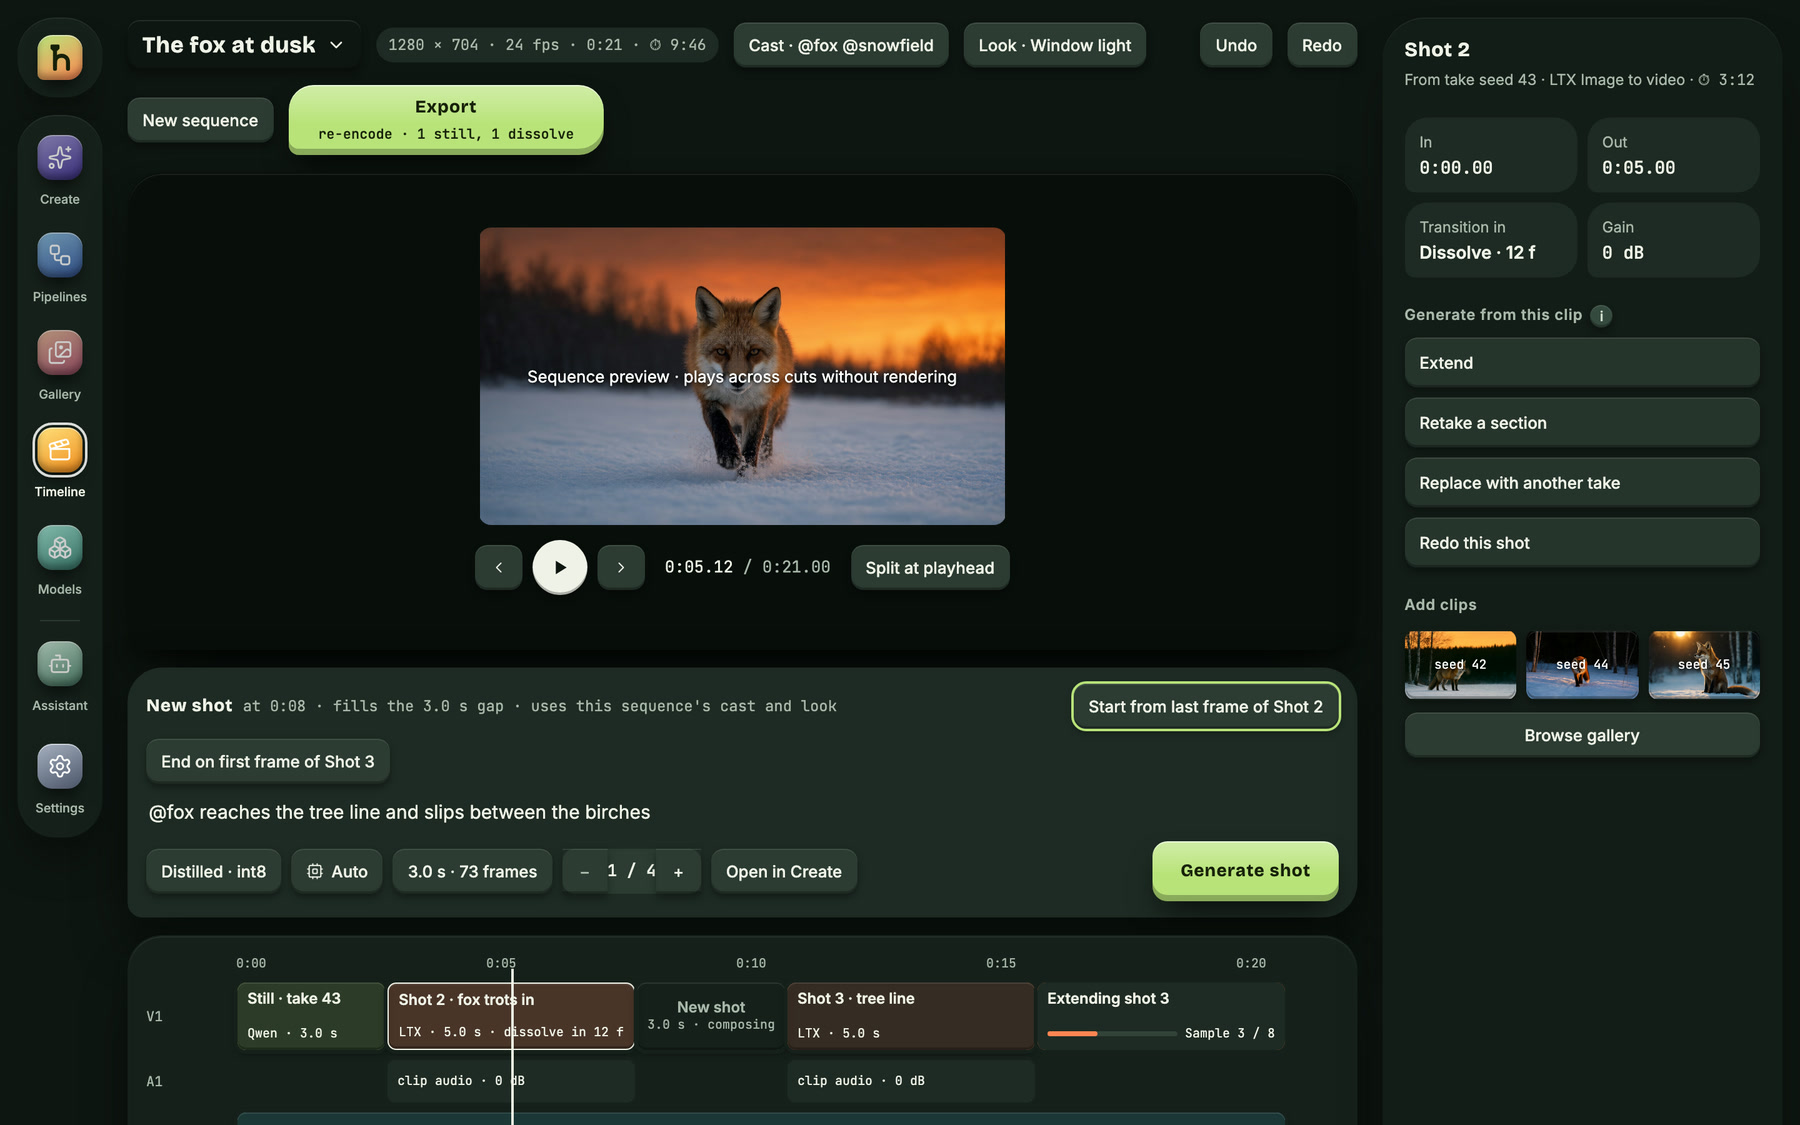
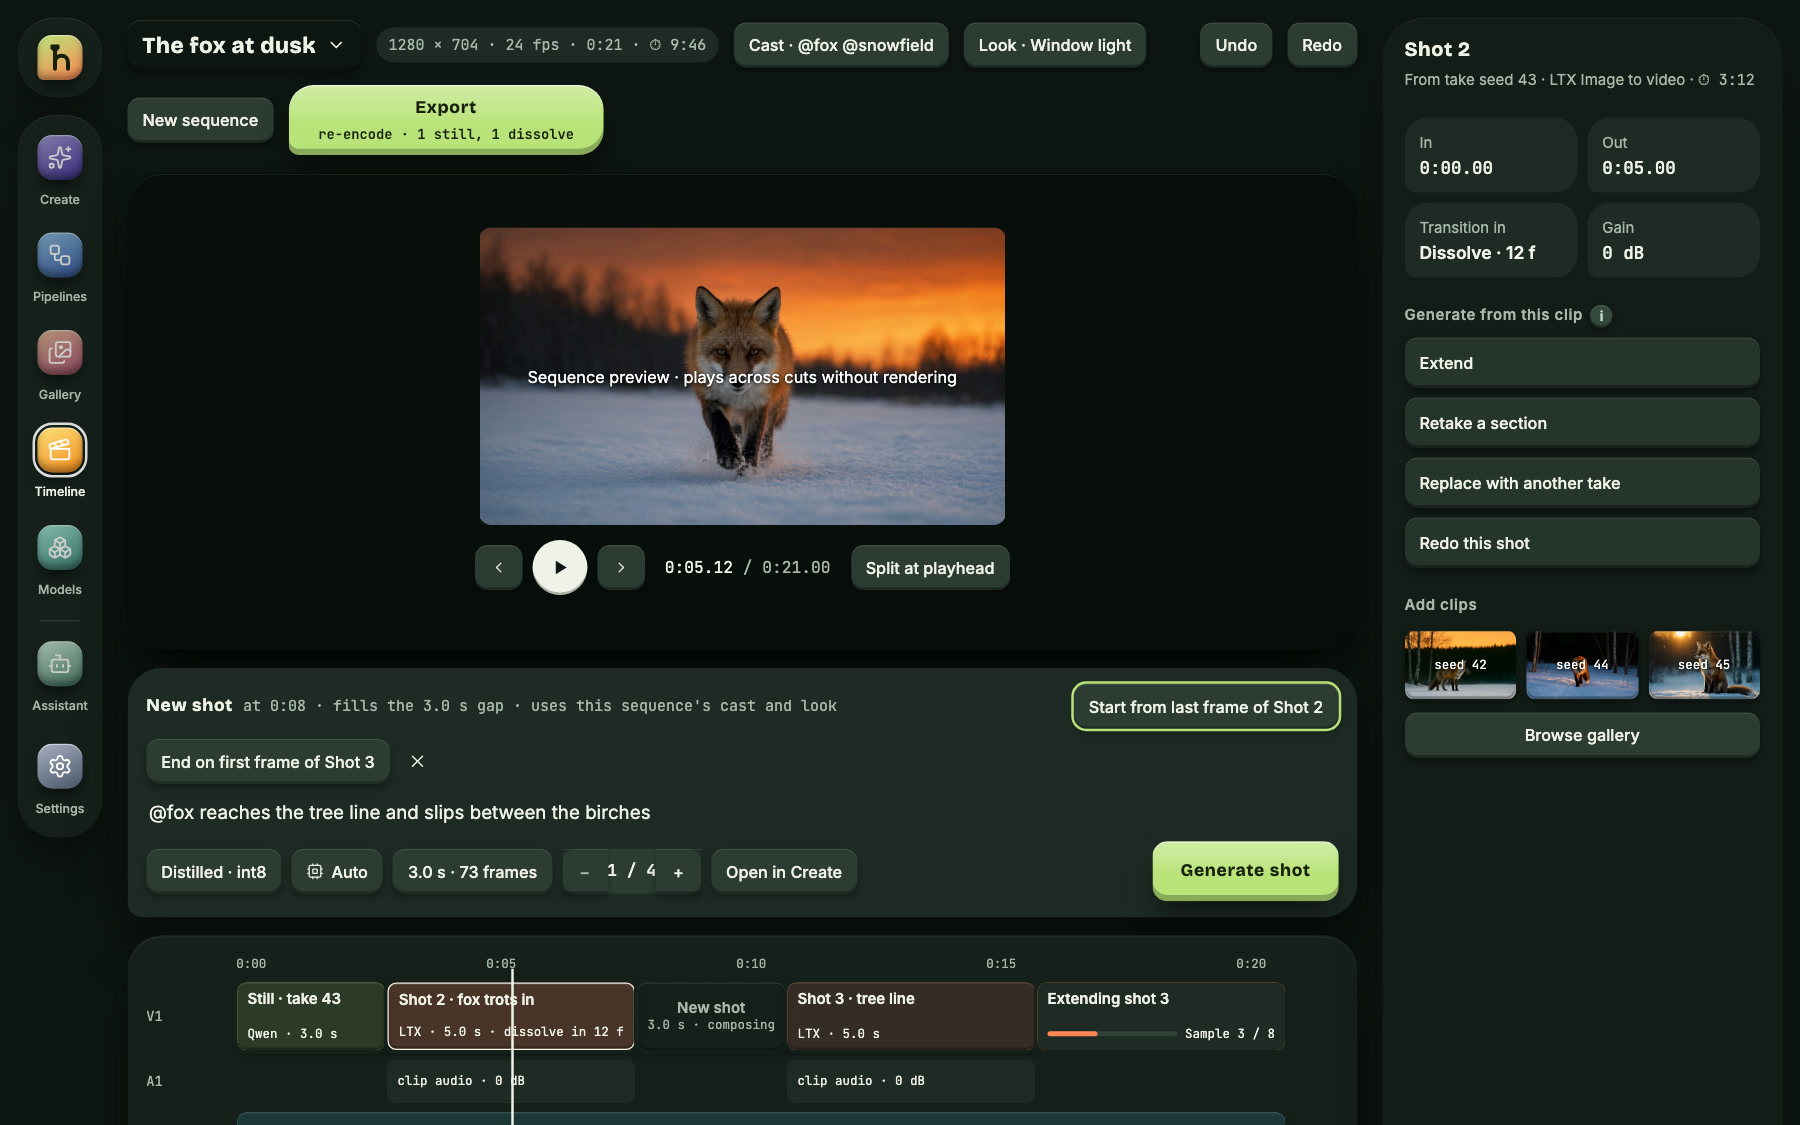
Docs for 0.1.0-alpha.5: What's new, alpha.5 downloads, the movable Assistant, Create's setting popups and All settings, Timeline Clone and auto-named sequences, right-click menus, host memory Automatic or Custom; four screenshots from the alpha.5 boards

diff --git a/src/content/docs/start/whats-new.md b/src/content/docs/start/whats-new.md
@@ -1,52 +1,61 @@
 ---
-title: What's new in 0.1.0-alpha.4
-description: The latest release, with Hub and System in the rail, a one-step Assistant setup, and install on Windows and Linux with Docker.
+title: What's new in 0.1.0-alpha.5
+description: The latest release, with a movable Assistant, settings popups in Create, Timeline clones and helmstudio's own right-click menus.
 sidebar:
   label: What's new
   order: 6
 ---
 
-0.1.0-alpha.4 is out, released on 25 November 2026 as a pre-release. Get it from
+0.1.0-alpha.5 is out, released on 26 November 2026 as a pre-release. Get it from
 [GitHub releases](https://github.com/janishar/helmstudio/releases). On a Mac from 0.1.0-alpha.2 on, choose
 **Check for updates…** in the app's menu. New installs: [Install and run](/start/install/).
 
-## Hub and System
-
-- Admins get two new items in the rail. [Hub](/studio/hub/) holds everything AI: **Assistant**, **In pipelines**,
-  **Providers** and **Plugins**. [System](/studio/system/) holds **Users**, **Hosts** and **API keys**.
-- The old **Admin** and **Plugins** items are gone. Their pages now live in Hub and System.
-- **Hub › In pipelines** sets the model a pipeline's AI step uses on **Auto**: a local model, a provider's model, or
-  the same as the Assistant.
-
 ## Assistant
 
-- It opens from the **Assistant** drawer, for everyone.
-- Before it is set up, the drawer says so. An admin gets **Set up**; anyone else is asked to have their admin set it
-  up. For an admin it opens this way once, on the first launch.
-- Setup is one flow: pick who answers, the key, the model.
-- On the Mac, [Your Claude subscription](/plugins/#your-claude-subscription) no longer needs a key pasted.
+- Move it. Drag the drawer's header or bar to float it anywhere on the screen; **Dock** (or a double-click) puts it
+  back at the right edge. It remembers the place in this browser.
+- **Close** stays on screen while a chip shows. A page's side form minimizes a docked drawer.
 
-More in [Assistant](/studio/assistant/).
-
-## Install on Windows and Linux
-
-- Each release has one `compose.yml` for Docker. The first start makes the secrets and your admin account; no
-  install script. See [Install and run](/start/install/#windows-and-linux-with-docker).
-- The images run on Intel/AMD and ARM machines. No NVIDIA image ships: on an NVIDIA card the runners run on the
-  machine itself, on Linux or Windows with WSL2. See [An NVIDIA card](/start/install/#an-nvidia-card).
-- Windows is untested so far.
-- The Mac app works as before.
+More in [Assistant](/studio/assistant/#move-it).
 
 ## Create
 
-- The **Image**, **Video** and **Audio** switch is now a panel of tabs, and keeps one size when you switch.
+- Each setting chip under the prompt (model · precision, **Run on**, size, length · fps, audio) opens a small popup
+  for just that setting.
+- The sliders button opens all the settings on the right. They are open by default.
+- Create offers only the variants that a host online now has.
+
+## Timeline
+
+- A **Clone** button in the Sequences dialog copies a sequence with all its clips, markers, cast and look. The copy
+  uses the same takes.
+- A sequence with no name is named from its shots' prompts. A name you type is kept.
+- The sliders button in the tracks tool bar opens and closes the side panel.
+- **New shot** has a **×**, and **+ New sequence** in the Sequences dialog works again.
+
+## Right-click menus
+
+- helmstudio's own right-click menus now work across the app: Timeline, Gallery, Create, Graph and Pipelines,
+  Assistant chat, Models, the LoRA, voice and element libraries, and the Hub and System lists, with shortcuts shown.
+- Text fields get **Cut**, **Copy**, **Paste**, **Select all** and **Insert @…**.
+- Shift + right-click opens the browser's menu instead.
+
+## Hosts and the Mac app
+
+- In [System](/studio/system/#hosts) › **Hosts**, the memory budget is **Automatic** or **Custom**. Automatic uses the
+  Mac's GPU memory limit when one is set.
+- The Mac app window never scrolls; only the panels inside it do.
 
 ## Earlier releases
 
+- **0.1.0-alpha.4:** [Hub](/studio/hub/) and [System](/studio/system/) in the rail for admins, the
+  [Assistant](/studio/assistant/) for everyone with a one-step setup, a default model for pipelines (**Hub › In
+  pipelines**), your Claude subscription with no key to paste, and install on Windows and Linux with Docker (one
+  `compose.yml` per release; Windows is untested).
 - **0.1.0-alpha.3:** an optional plugin to use your own Claude plan on the Mac, off by default.
 - **0.1.0-alpha.2:** a much stronger [Assistant](/studio/assistant/) (full screen or a small bar, `@` to hand it
   takes, it sees images, **Auto mode**, shot lists that stick), [plugins](/plugins/) with
   [Web search](/plugins/web-search/), [skills](/plugins/skills/) and [Media tools](/plugins/media-tools/), render
   times on every take, a faster Gallery, and a Mac app that updates itself.
 
-Every change is in the [changelog](https://github.com/janishar/helmstudio/blob/v0.1.0-alpha.4/CHANGELOG.md).
+Every change is in the [changelog](https://github.com/janishar/helmstudio/blob/v0.1.0-alpha.5/CHANGELOG.md).

diff --git a/src/content/docs/studio/timeline.md b/src/content/docs/studio/timeline.md
@@ -15,9 +15,16 @@ shots in all (for example ⏱ 12:40), its cast and look defaults, undo and redo,
 
 - **New sequence**: give it a name. Its width, height and frame rate come from the first clip; with no clip yet it is
   1280 × 720 at 24 fps. Sound is 48 kHz.
-- **Switch, rename or delete**: open the sequence switcher (**Sequences**). Deleting a sequence keeps its clips in
+- **Switch, rename, clone or delete**: open the sequence switcher (**Sequences**). **Clone** copies a sequence with
+  all its clips, markers, cast and look; the copy uses the same takes, so nothing is rendered again. Deleting a sequence keeps its clips in
   the Gallery and cancels an unfinished export.
+- **Names**: a sequence with no name is named from its shots' prompts, like Create's sessions. A name you type is
+  kept.
+- **Side panel**: the sliders button in the tracks tool bar opens and closes the panel on the right.
 - **Defaults for new shots**: a sequence can carry a cast (elements) and a look. Every new shot starts with them.
+
+Right-click a clip, a gap, a track, the ruler or a selection for its actions, with their shortcuts. Shift +
+right-click gives the browser's menu.
 
 ## Add clips
 
@@ -101,7 +108,7 @@ progress, and the new take also lands in the Gallery.
 
 **New shot.** At the playhead, in a gap, or from a selected clip, choose **New shot**. Create's composer opens docked
 in the timeline, with the sequence's cast and look. Where the workflow has keyframes, you can start from the previous
-clip's last frame or end on the next clip's first frame. Press **Generate shot**.
+clip's last frame or end on the next clip's first frame. Press **Generate shot**. Close it with the **×** or **Esc**.
 
 **Take actions on a clip.** A video clip offers its take's actions under "Generate from this clip", such as Retake
 over the marked range or Extend. Choose where the result goes: **Replace** (keeps the clip's in and out; nothing

diff --git a/src/content/docs/studio/create.md b/src/content/docs/studio/create.md
@@ -15,7 +15,12 @@ shows on the stage, joins the session's strip and lands in the [Gallery](/studio
 - **Takes strip**: this session's takes and runs.
 - **Composer** (bottom): the **Image / Video / Audio** tabs on a raised panel, the model chip, **Run on**, the prompt, the seed count
   and **Generate**.
-- **Inspector** (right): the **Preset** chips and the workflow's settings, grouped in sections.
+- **Inspector** (right): the **Preset** chips and the workflow's settings, grouped in sections. It is open by default;
+  the **All settings** button (the sliders icon) in the composer closes and opens it.
+
+Each setting chip under the prompt (model · precision, **Run on**, size, length · fps, audio) opens a small popup for
+just that setting, so a quick change needs no trip to the Inspector. Create offers only the variants that a host
+online now has.
 
 In a narrow window the row of input fields (for example First frame, Elements, Film, Camera and Lighting) wraps onto
 more lines. The fields keep one width, as an even grid.

diff --git a/src/content/docs/studio/system.md b/src/content/docs/studio/system.md
@@ -40,7 +40,10 @@ Select a host to change its **Host settings**. They apply to every runtime on it
 - **After the queue drains**: **Unload everything**, **Keep warm**, or **Keep pinned only**. Only Unload everything
   is sure to give the memory back.
 - **Idle timeout, minutes** (0 = never).
-- **Memory reserve, GB**: the budget is the machine's memory (the GPU's on an NVIDIA host) minus this reserve.
+- **Memory budget**: **Automatic** or **Custom**. Automatic uses the Mac's GPU memory limit when one is set, else its
+  memory minus a default reserve (on an NVIDIA host, the GPU's memory minus the default reserve). **Custom** shows
+  **Memory reserve, GB**: the budget is the machine's memory (the GPU's on an NVIDIA host) minus the reserve you
+  set. Both are also checked against live memory pressure.
 - **Evict all** empties the host now.
 
 To add a machine, see [Hosts](/start/hosts/).

diff --git a/src/content/docs/studio/assistant.md b/src/content/docs/studio/assistant.md
@@ -41,6 +41,12 @@ and set it up later from **Assistant** or **⌘J**.
 
 The bar moves up rather than cover a **Generate** button.
 
+### Move it
+
+Drag the drawer's header (or its bar) to float it anywhere on the screen. **Dock**, or a double-click on the header,
+puts it back at the right edge. helmstudio remembers the place for you in this browser. **Close** stays on screen
+while a chip shows. When a page opens a side form (for example Edit or Add), a docked drawer minimizes to make room.
+
 ## What it can do
 
 It works every screen:

diff --git a/src/content/docs/studio/gallery.md b/src/content/docs/studio/gallery.md
@@ -38,6 +38,8 @@ Click a take to see it in the side panel:
 - Open it **Full screen** (**F**), or double-click the take in the grid: an image opens full size, a video or sound
   plays. A single click only selects it.
 
+Right-click a take for the same actions. Shift + right-click gives the browser's menu.
+
 ## Take actions
 
 | Action | What it does |
